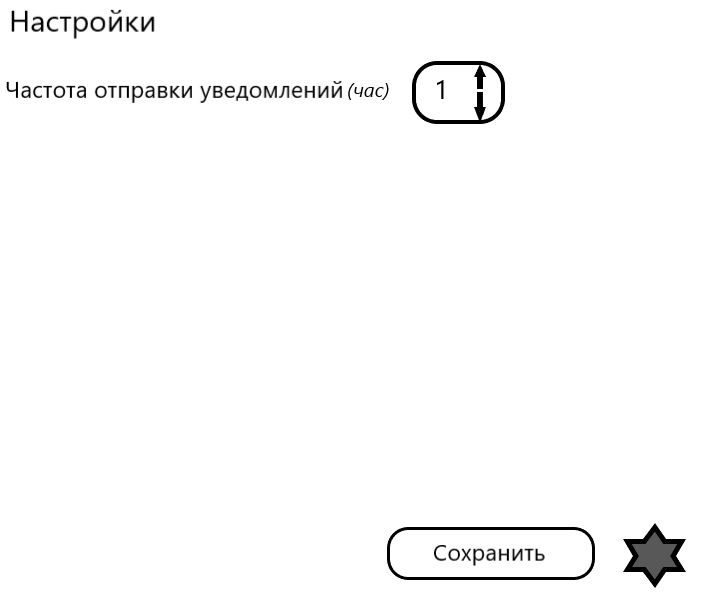
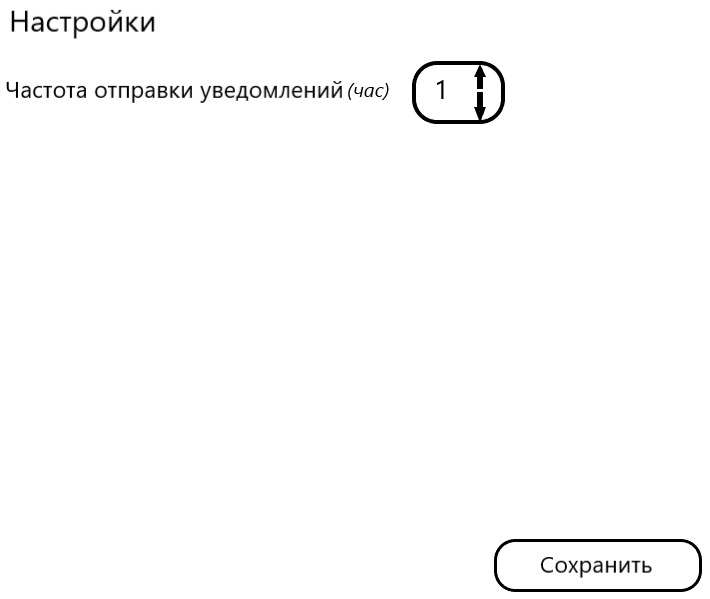
создал интерфейс окна настроек

Changed region(s): [[0.5577, 0.8715, 0.9915, 0.9917], [0.5268, 0.9015, 0.5577, 0.9616]]

diff --git a/Interface/Interface_settingsWindow.py b/Interface/Interface_settingsWindow.py
@@ -1,0 +1,76 @@
+from PyQt5.QtGui import QCursor, QFont, QIcon
+from PyQt5.QtCore import Qt
+from PyQt5.QtWidgets import (
+    QApplication,
+    QHBoxLayout,
+    QSizePolicy,
+    QSpacerItem,
+    QWidget,
+    QLabel,
+    QPushButton,
+    QSpinBox,
+    QVBoxLayout,
+    QGroupBox
+)
+from style import get_saveButton_StyleSheet
+import sys
+
+
+class Interface(QWidget):
+    def __init__(self):
+        super().__init__()
+
+        self.setWindowTitle("Настройки")
+        self.setWindowIcon(QIcon("Icons/settingsAppIcon.png"))
+        self.setGeometry(1000, 300, 300, 500)
+        self.setupUi()
+
+    def setupUi(self):
+        # -------------------------Название раздела «Настройки»-------------------------
+        self.title = QLabel(self)
+        self.title.setText("Настройки")
+        self.title.setFont(QFont("Yu Gothic UI Semibold", 18))
+
+        # --------------------Настройка частоты отправки уведомлений--------------------
+        self.delay = QGroupBox("Частота отправки уведомлений (час)", self)
+        self.delay.setFont(QFont("Yu Gothic UI Semibold", 9))
+        self.delay.setAlignment(Qt.AlignLeft)
+
+        self.delaySB = QSpinBox(self.delay) 
+        self.delaySB.setSingleStep(1)
+        self.delaySB.setMinimum(1)
+        self.delaySB.setMaximum(24)
+        self.delaySB.setWrapping(True)
+        self.delaySB.setSuffix(" h")
+
+        self.hlayoutDelay = QHBoxLayout()
+        self.hlayoutDelay.addWidget(self.delaySB)
+
+        self.delay.setLayout(self.hlayoutDelay)
+
+        # ------------------------------Кнопка «Сохранить»------------------------------
+        self.saveButton = QPushButton(self)
+        self.saveButton.setText("Сохранить")
+        self.saveButton.setFont(QFont("Yu Gothic UI Semibold", 12))
+        self.saveButton.setStyleSheet(get_saveButton_StyleSheet())
+        self.saveButton.setCursor(QCursor(Qt.PointingHandCursor))
+
+        # ----------------------------Глобальная компоновка-----------------------------
+        self.globalLayout = QVBoxLayout()
+        self.globalLayout.addWidget(self.title)
+        self.globalLayout.addWidget(self.delay)
+
+        self.verticalSpacer = QSpacerItem(
+            20, 20, QSizePolicy.Minimum, QSizePolicy.Expanding
+        )
+        self.globalLayout.addItem(self.verticalSpacer)
+        self.globalLayout.addWidget(self.saveButton, alignment=Qt.AlignRight)
+
+        self.setLayout(self.globalLayout)
+
+
+if __name__ == "__main__":
+    app = QApplication(sys.argv)
+    my_app = Interface()
+    my_app.show()
+    sys.exit(app.exec_())

diff --git a/Interface/style.py b/Interface/style.py
@@ -71,3 +71,24 @@ def get_invisible_settingsButton_StyleSheet():
             background-color: rgba(0, 0, 0, 70);
         }
     """
+
+
+def get_saveButton_StyleSheet():
+    """ Кнопка «Сохранить» """
+
+    return """
+        QPushButton {
+            border: 2px solid #000000;
+            border-radius: 10px;
+            padding: 0px 5px;
+        }
+
+        QPushButton:hover {
+            background-color: #DCDCDC;
+        }
+
+        QPushButton:pressed {
+            background-color: #C0C0C0;
+            border: 2px solid #696969;
+        }
+    """
